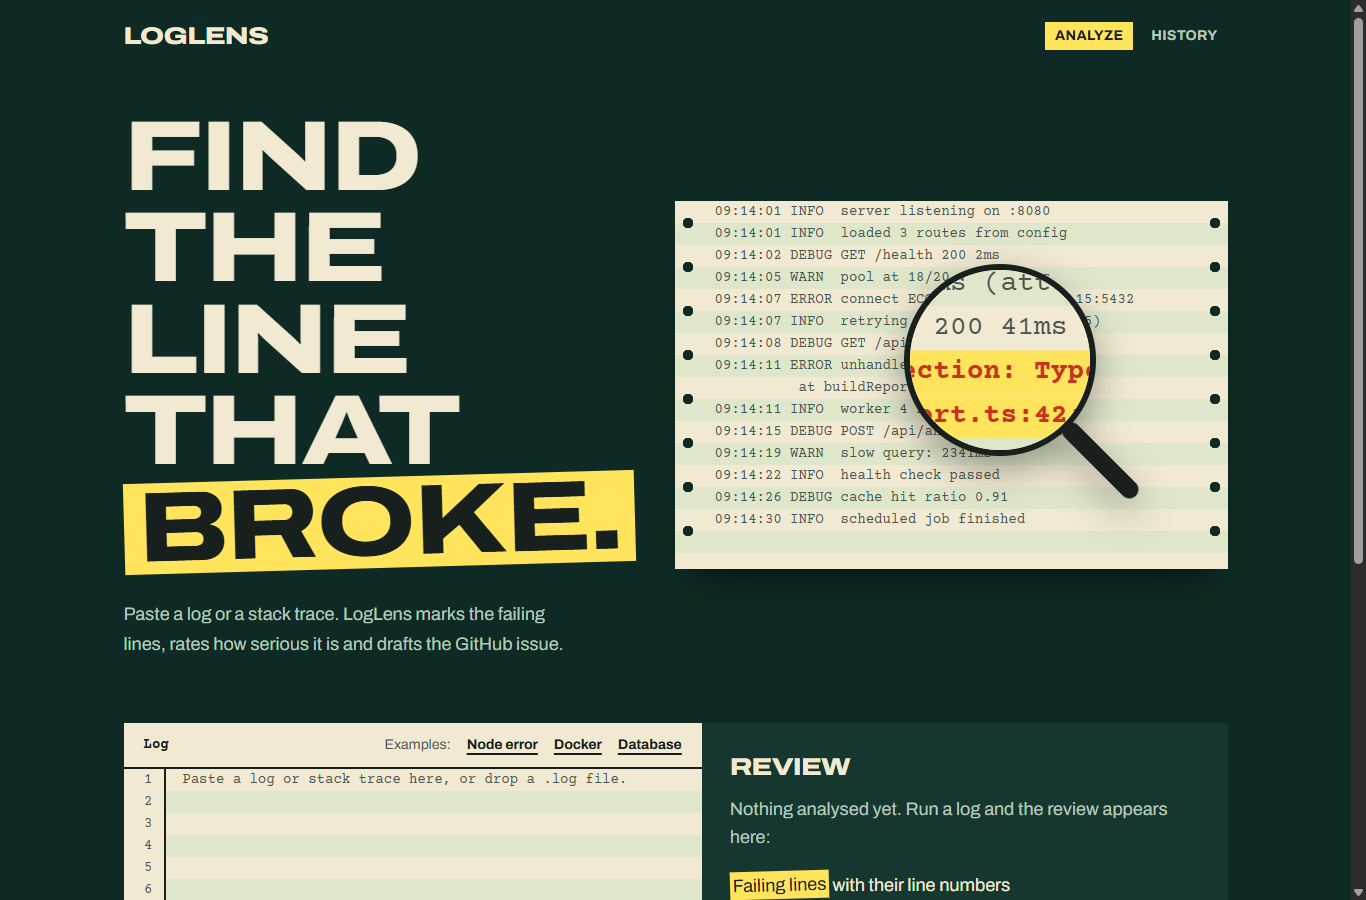
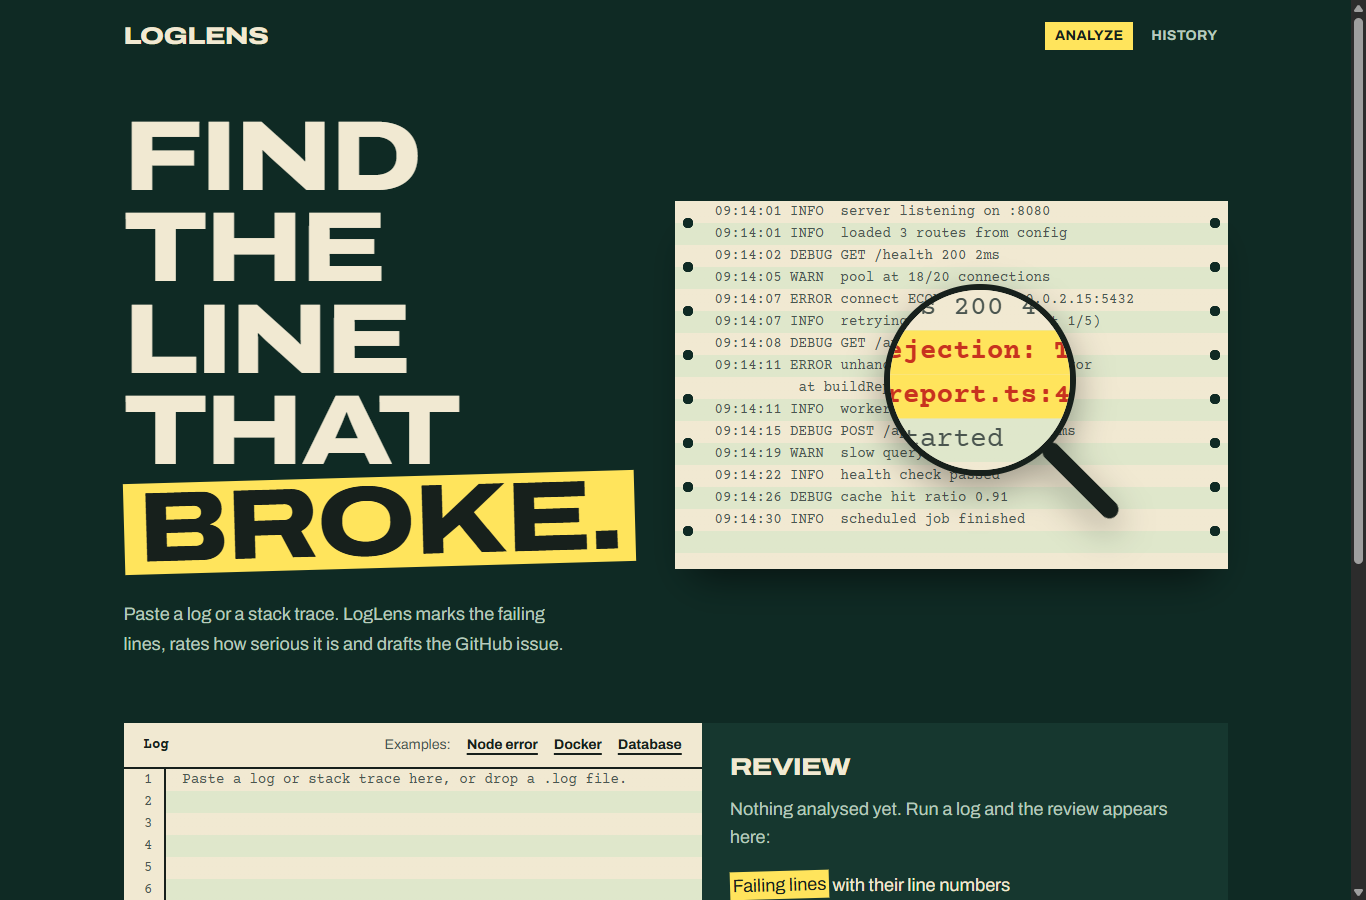
docs: real screenshots from the live demo and a link to it

Changed region(s): [[0.6457, 0.28, 0.8302, 0.5911]]

diff --git a/README.md b/README.md
@@ -15,6 +15,8 @@ GitHub Issue you can copy in one click.
 
 </div>
 
+**Live demo:** https://giacomonegri-loglens.vercel.app
+
 ---
 
 ## Features
@@ -101,8 +103,7 @@ LogLens/
 
 ## Screenshots
 
-> Captured with `AI_PROVIDER=mock`, so the causes shown are the mock provider's placeholder text.
-> With `openai` or `ollama` the report contains a real analysis.
+> Captured on the live demo, which uses `AI_PROVIDER=rules` (built-in rules, no API key).
 
 | Paste a log or upload a file                  | Report with severity, key lines, causes and steps |
 | --------------------------------------------- | ------------------------------------------------- |
